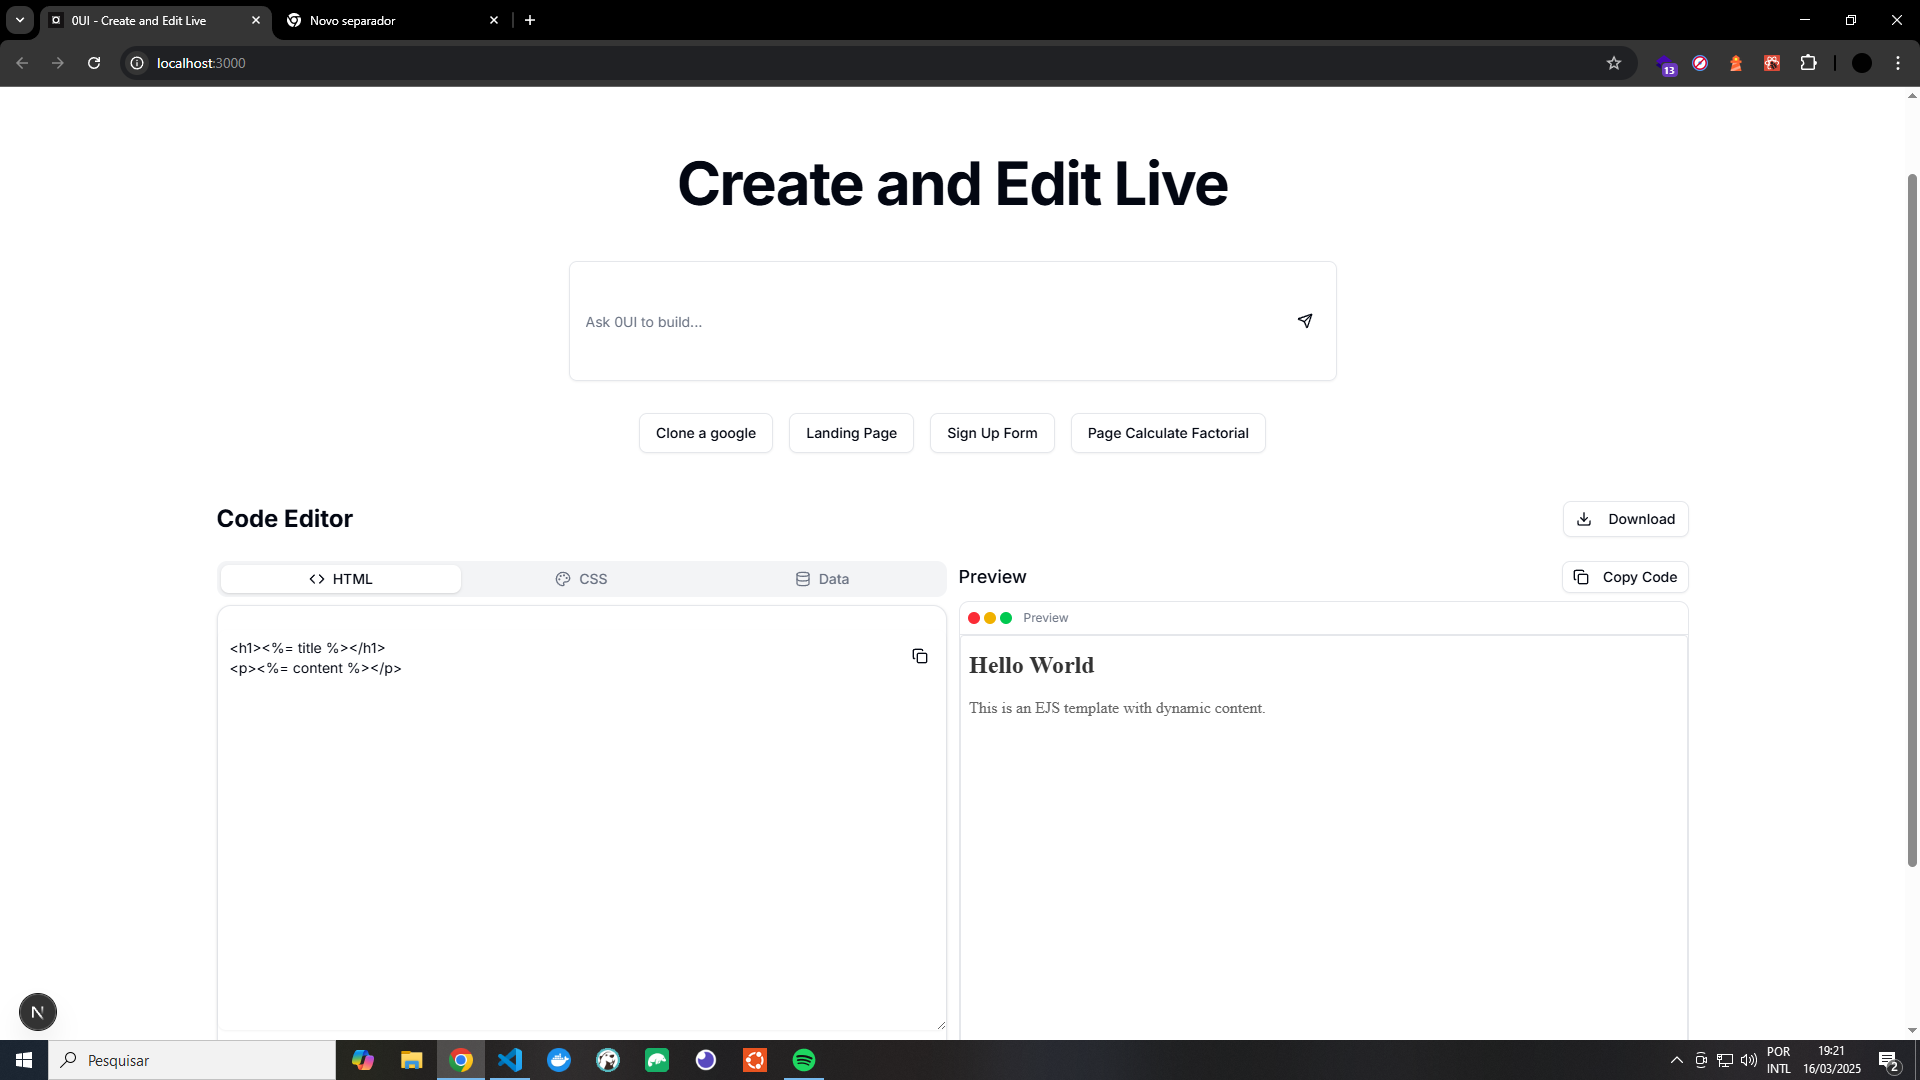
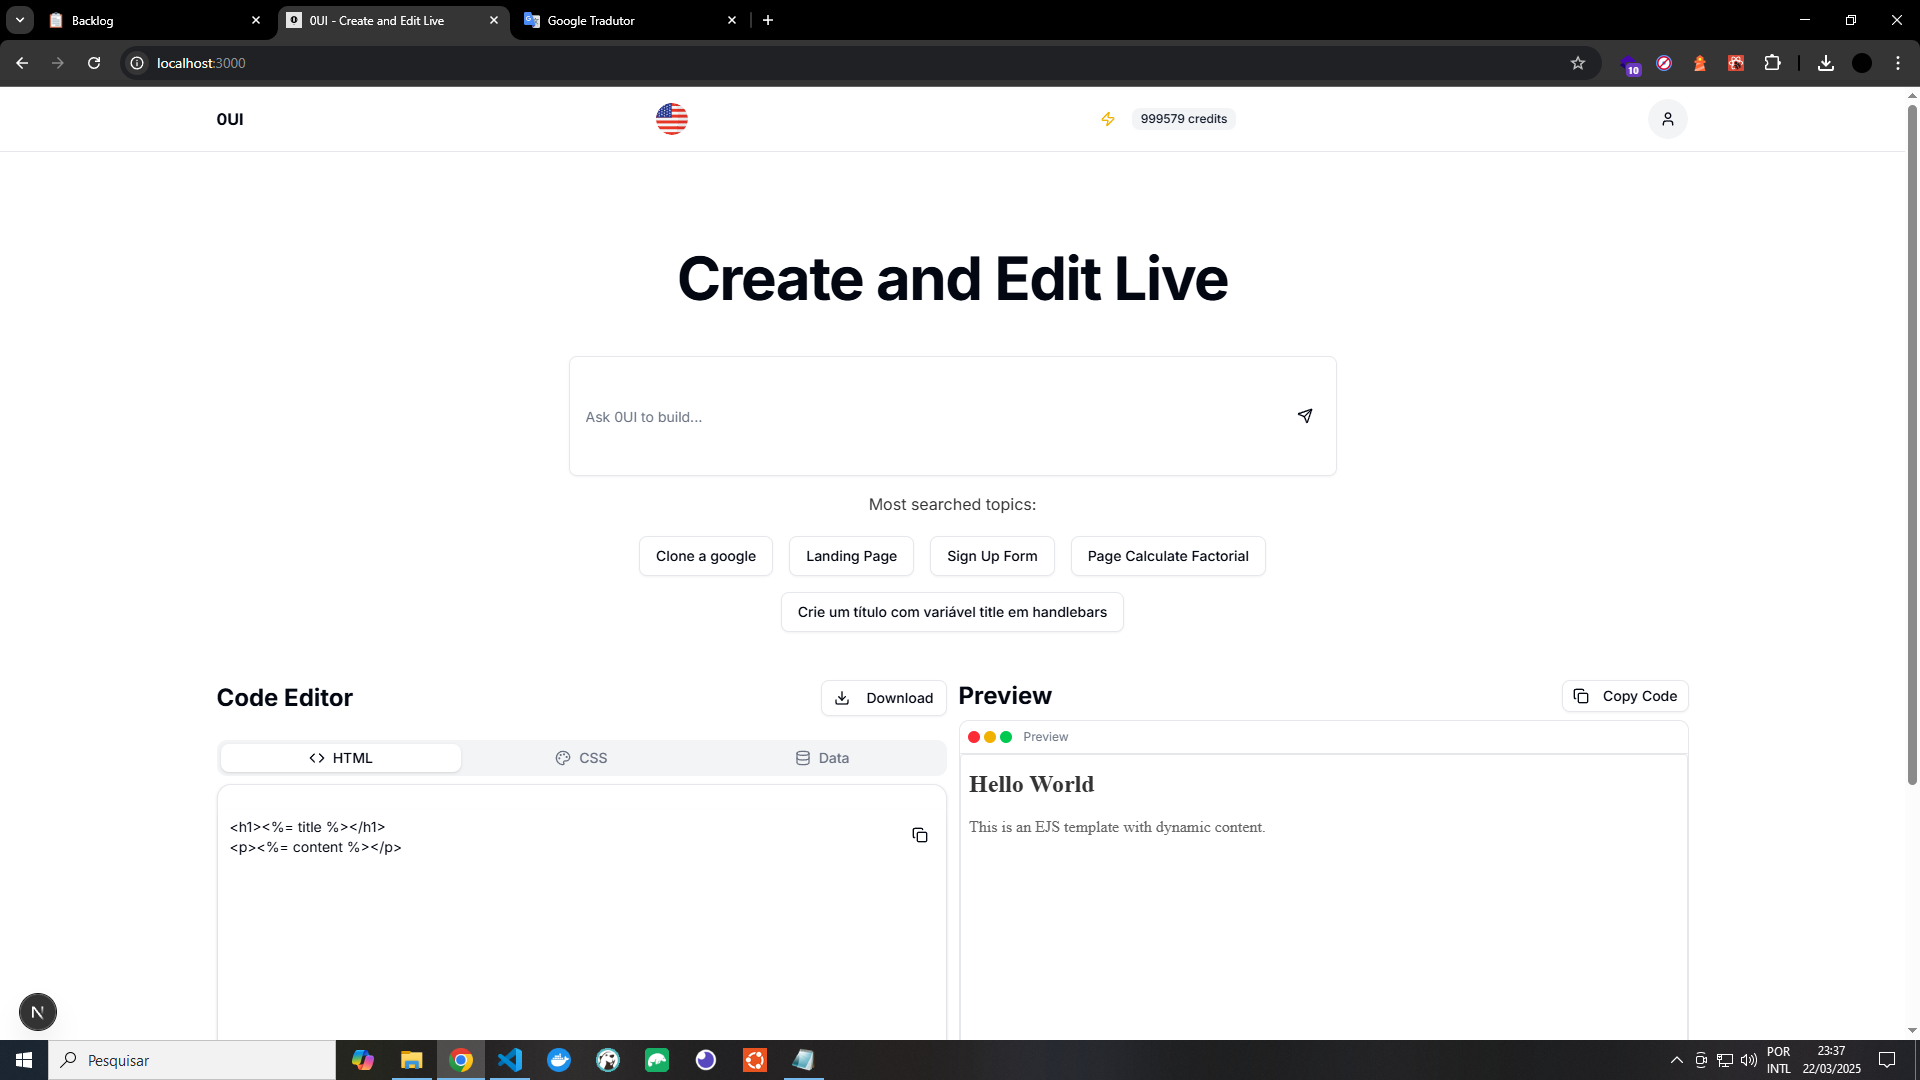
add change language, fix use 'in'

diff --git a/src/app/page.tsx b/src/app/page.tsx
@@ -8,7 +8,8 @@ import {
   Database,
   Palette,
   Loader2,
-  Send
+  Send,
+  SquareArrowRight 
 } from "lucide-react"
 import { Button } from "@/components/ui/button"
 import { Input } from "@/components/ui/input"
@@ -31,12 +32,13 @@ export default function Home() {
   const [cssCode, setCssCode] = useState(`h1 {\n  color: #333;\n  font-size: 24px;\n}\n\np {\n  color: #666;\n  line-height: 1.6;\n}`)
   const [dataCode, setDataCode] = useState(`{\n  "title": "Hello World",\n  "content": "This is an EJS template with dynamic content."\n}`)
   const [codePreview, setCodePreview] = useState('')
+  const [engine, setEngine] = useState('ejs')
 
   const [error, setError] = useState<string | null>(null)
   const [input, setInput] = useState("")
   const [isLoading, setIsLoading] = useState(false);
 
-  const mostSearched = ['Clone a google', 'Landing Page', 'Sign Up Form', 'Page Calculate Factorial'];
+  const mostSearched = ['Clone a google', 'Landing Page', 'Sign Up Form', 'Page Calculate Factorial', 'Crie um título com variável title em handlebars'];
 
   const combinedCode = `
     <!DOCTYPE html>
@@ -57,45 +59,32 @@ export default function Home() {
 
   const replaceVariables = useCallback((code: string, data: any, regex: RegExp) => {
     const dataCodeHtml = code.replace(regex, (_, key) => (key in data ? data[key] : ""))
+
     setCodePreview(dataCodeHtml)
   }, [])
 
-  const renderTemplate = useCallback((code: string, data: object, engine: string) => {
+  const renderTemplate = useCallback((code: string, data: object) => {
     const regexMap: any = {
       ejs: /<%=\s*(\w+)\s*%>/g,
       handlebars: /{{\s*(\w+)\s*}}/g,
       nunjucks: /{{\s*(\w+)\s*}}/g
     };
   
-    const regex = regexMap[engine] || regexMap.ejs;
+    const regex = regexMap[engine];
     replaceVariables(code, data, regex);
-  }, [replaceVariables]);
+  }, [replaceVariables, engine]);
 
-  const codeGenerated = useCallback((contentCode: string, css: string, dataObj: any = dataCode) => {
-    const engine = detectTemplateEngine(contentCode);
-    
-    renderTemplate(contentCode, dataObj, engine);
+  const codeGenerated = useCallback((contentCode: string, css: string) => {
+    const dataObj = JSON.parse(dataCode)
+
+    renderTemplate(contentCode, dataObj);
     setHtmlCode(contentCode);
     setCssCode(css);
   }, [dataCode, renderTemplate]);
 
   useEffect(() => {
-    try {
-      const dataObj = JSON.parse(dataCode)
-      codeGenerated(htmlCode, cssCode, dataObj);
-      setError(null)
-    } catch (err) {
-      setError(err instanceof Error ? err.message : t("errors.error_processing_template"))
-    }
-  }, [htmlCode, dataCode, cssCode, codeGenerated, t])
-
-  function detectTemplateEngine(code: string): string {
-    if (/^<%=?\s*\w+/.test(code)) return "ejs";
-    if (/{{\s*[\w.]+\s*}}/.test(code)) return "handlebars";
-    if (/{{\s*\w+\s*}}/.test(code)) return "nunjucks";
-    if (!/[<>]/.test(code)) return "pug";
-    return "html";
-  }  
+    codeGenerated(htmlCode, cssCode);
+  }, [htmlCode, cssCode, codeGenerated])
 
   const handleSubmit = async (e: React.FormEvent) => {
     e.preventDefault();
@@ -131,9 +120,12 @@ export default function Home() {
         pug: extractedCode.pug,
       };
   
-      const code = codeMapping.ejs || codeMapping.html || codeMapping.nunjucks || codeMapping.handlebars || codeMapping.pug || "<h1>404</h1>";
+      const entry = Object.entries(codeMapping).find(([_, value]) => typeof value === "string");
+      const code = (entry ? entry[1] : "<h1>404</h1>") as string;
+      const source = entry ? entry[0] : "none";
       const css = extractedCode.css || "";
-      
+
+      setEngine(source)
       codeGenerated(code, css);
     } catch (err) {
       setError(err instanceof Error ? err.message : t("errors.error_processing_template"));
@@ -164,8 +156,8 @@ export default function Home() {
               <Input disabled={isLoading} value={input} onChange={(e: any) => setInput(e.target.value)} className="h-30 pl-4 pr-12 text-base" placeholder={t("interface.ask_0ui_placeholder")} />
               <div className="absolute right-4 top-1/2 flex -translate-y-1/2 items-center gap-2">
                 {!isLoading ? (
-                  <Button type="submit" variant="ghost" size="icon" className="h-8 w-8">
-                    <Send className="h-5 w-5" />
+                  <Button type="submit" variant="ghost" size="icon" className="h-10 w-10">
+                    <SquareArrowRight size={10} />
                   </Button>
                 ) : (
                   <div className="flex items-center gap-2">
@@ -175,7 +167,8 @@ export default function Home() {
                 )}
               </div>
             </form>
-            <div className="mt-8 flex flex-wrap items-center justify-center gap-4">
+            <p className="mt-4 text-[#333]">{t("interface.most_searched_topics")}</p>
+            <div className="mt-5 flex flex-wrap items-center justify-center gap-4">
               {mostSearched.map((text: string, i: number) => (
                 <Button onClick={() => setInput(text)} key={i} variant="outline" className="h-10 gap-2 rounded-md px-4 py-2">
                   {text}
@@ -186,18 +179,17 @@ export default function Home() {
         </section>
 
         <section className="container py-12">
-          <div className="mb-6 flex items-center justify-between">
-            <h2 className="text-2xl font-bold">{t("interface.code_editor")}</h2>
-            <div className="flex items-center gap-2">
-              <Button onClick={() => downloadFile(`${htmlCode}\n\n<style>\n${cssCode}\n</style>`, "template-with-styles.ejs")} variant="outline">
-                <Download className="mr-2 h-4 w-4" />
-                {t("interface.download_button")}
-              </Button>
-            </div>
-          </div>
-
           <div className="grid grid-cols-1 gap-3 lg:grid-cols-2">
             <div className="space-y-3">
+              <div className="mb-6 flex items-center justify-between">
+                <h2 className="text-2xl font-bold">{t("interface.code_editor")}</h2>
+                <div className="flex items-center gap-2">
+                  <Button onClick={() => downloadFile(`${htmlCode}\n\n<style>\n${cssCode}\n</style>`, "template-with-styles.ejs")} variant="outline">
+                    <Download className="mr-2 h-4 w-4" />
+                    {t("interface.download_button")}
+                  </Button>
+                </div>
+              </div>
               <Tabs defaultValue="html" className="w-full">
                 <TabsList className="grid w-full grid-cols-3">
                   <TabsTrigger value="html" className="flex items-center gap-2">
@@ -284,7 +276,7 @@ export default function Home() {
 
             <div>
               <div className="mb-2 flex items-center justify-between">
-                <h2 className="text-lg font-medium">{t("interface.preview_title")}</h2>
+                <h2 className="text-2xl font-bold">{t("interface.preview_title")}</h2>
                 <Button title="copy" variant="outline" size="sm">
                   <Copy className="mr-2 h-4 w-4" />
                   {t("interface.copy_code_button")}

diff --git a/src/components/header.tsx b/src/components/header.tsx
@@ -18,13 +18,18 @@ import { LogOut, User, Settings, Zap } from "lucide-react"
 import { signOut } from "firebase/auth"
 import { useTranslation } from 'react-i18next';
 
+import BrasilFlag from '../app/assets/brasil-flag.svg';
+import EuaFlag from '../app/assets/eua-flag.svg';
 import { auth } from "../app/api/firebase";
 import { useUser } from "../app/context/userContext"
 
 export default function Header() {
   const { user, points, setUser } = useUser()
-  const { t } = useTranslation();
+  const { t, i18n } = useTranslation();
+
   const router = useRouter()
+
+  const selectedLanguage = i18n.language;
 
   const handleLogout = async () => {
     try {
@@ -36,20 +41,60 @@ export default function Header() {
     }
   }
 
+  function handleChangeLanguage(language: string) {
+    i18n.changeLanguage(language)
+  }
+
   return (
     <header className="border-b">
-      {user ? (
-        <div className="container flex h-16 items-center justify-between">
-          <Link href="/" className="flex items-center gap-2">
-            <Image
-              src="/logo.png"
-              width={50}
-              height={50}
-              alt="logo"
-            />
-            <span className="font-bold">0UI</span>
-          </Link>
+      <div className="container flex h-16 items-center justify-between">
+        <Link href="/" className="flex items-center gap-2">
+          <span className="font-bold">0UI</span>
+        </Link>
 
+        <div className="flex items-center gap-4">
+          <DropdownMenu>
+            <DropdownMenuTrigger asChild>
+              <Button variant="ghost" className="relative h-8 w-8 rounded-full">
+                <Avatar className="h-8 w-8">
+                  <AvatarImage src="" alt="Profile" />
+                  <AvatarFallback>
+                    <Image
+                      src={selectedLanguage === 'pt-BR' ? BrasilFlag : EuaFlag}
+                      width={40}
+                      height={40}
+                      alt="logo"
+                    />
+                  </AvatarFallback>
+                </Avatar>
+              </Button>
+            </DropdownMenuTrigger>
+
+            <DropdownMenuContent className="bg-[#fafafa] w-10" align="end" forceMount>
+              <DropdownMenuItem className="hover:bg-[#eee]" onClick={() => handleChangeLanguage('pt-BR')}>
+                <Image
+                  src={BrasilFlag}
+                  width={35}
+                  height={35}
+                  alt="logo"
+                />
+                <span>pt-BR</span>
+              </DropdownMenuItem>
+              <DropdownMenuItem className="hover:bg-[#eee]" onClick={() => handleChangeLanguage('en-US')}>
+                <Image
+                  src={EuaFlag}
+                  width={35}
+                  height={35}
+                  alt="logo"
+                />
+                <span>en-US</span>
+              </DropdownMenuItem>
+            </DropdownMenuContent>
+          </DropdownMenu>
+        </div>
+
+        {user ? (
+          <>
           <div className="flex items-center gap-4">
             <Zap className="h-4 w-4 text-yellow-500" />
             <Badge variant="secondary" className="font-medium">
@@ -70,7 +115,7 @@ export default function Header() {
             </DropdownMenuTrigger>
 
             <DropdownMenuContent className="bg-[#fafafa] w-56" align="end" forceMount>
-              <DropdownMenuLabel>{t("account_menu_label")}</DropdownMenuLabel>
+              <DropdownMenuLabel>{t("interface.account_menu_label")}</DropdownMenuLabel>
               <DropdownMenuSeparator />
               <DropdownMenuItem className="hover:bg-[#eee]">
                 <User className="mr-2 h-4 w-4" />
@@ -91,18 +136,8 @@ export default function Header() {
               </DropdownMenuItem>
             </DropdownMenuContent>
           </DropdownMenu>
-        </div>
-      ) : (
-        <div className="container flex h-16 items-center justify-between">
-          <Link href="/" className="flex items-center gap-2">
-            <Image
-              src="/logo.png"
-              width={50}
-              height={50}
-              alt="logo"
-            />
-            <span className="font-bold">0UI</span>
-          </Link>
+          </>
+        ) : (
           <div className="flex items-center gap-4">
             <Button variant="ghost" asChild>
               <Link href="/signin">{t("interface.signin")}</Link>
@@ -111,8 +146,8 @@ export default function Header() {
               <Link href="/signup">{t("interface.signup")}</Link>
             </Button>
           </div>
-        </div>
-      )}
+        )}
+      </div>
     </header>
   )
 }

diff --git a/src/app/utils/generateCode.ts b/src/app/utils/generateCode.ts
@@ -31,7 +31,7 @@ export default async function generateCode(msg: string) {
     ejs: res.includes('```ejs') ? res.split('```ejs')[1].split('```')[0].trim() : null,
     pug: res.includes('```pug') ? res.split('```pug')[1].split('```')[0].trim() : null,
     nunjucks: res.includes('```nunjucks') ? res.split('```nunjucks')[1].split('```')[0].trim() : null,
-    handlebars: res.includes('```hbs') ? res.split('```hbs')[1].split('```')[0].trim() : null,
+    handlebars: res.includes('```handlebars') ? res.split('```handlebars')[1].split('```')[0].trim() : null,
     html: res.includes('```html') ? res.split('```html')[1].split('```')[0].trim() : null,
     css: res.includes('```css') ? res.split('```css')[1].split('```')[0].trim() : null
   });  
